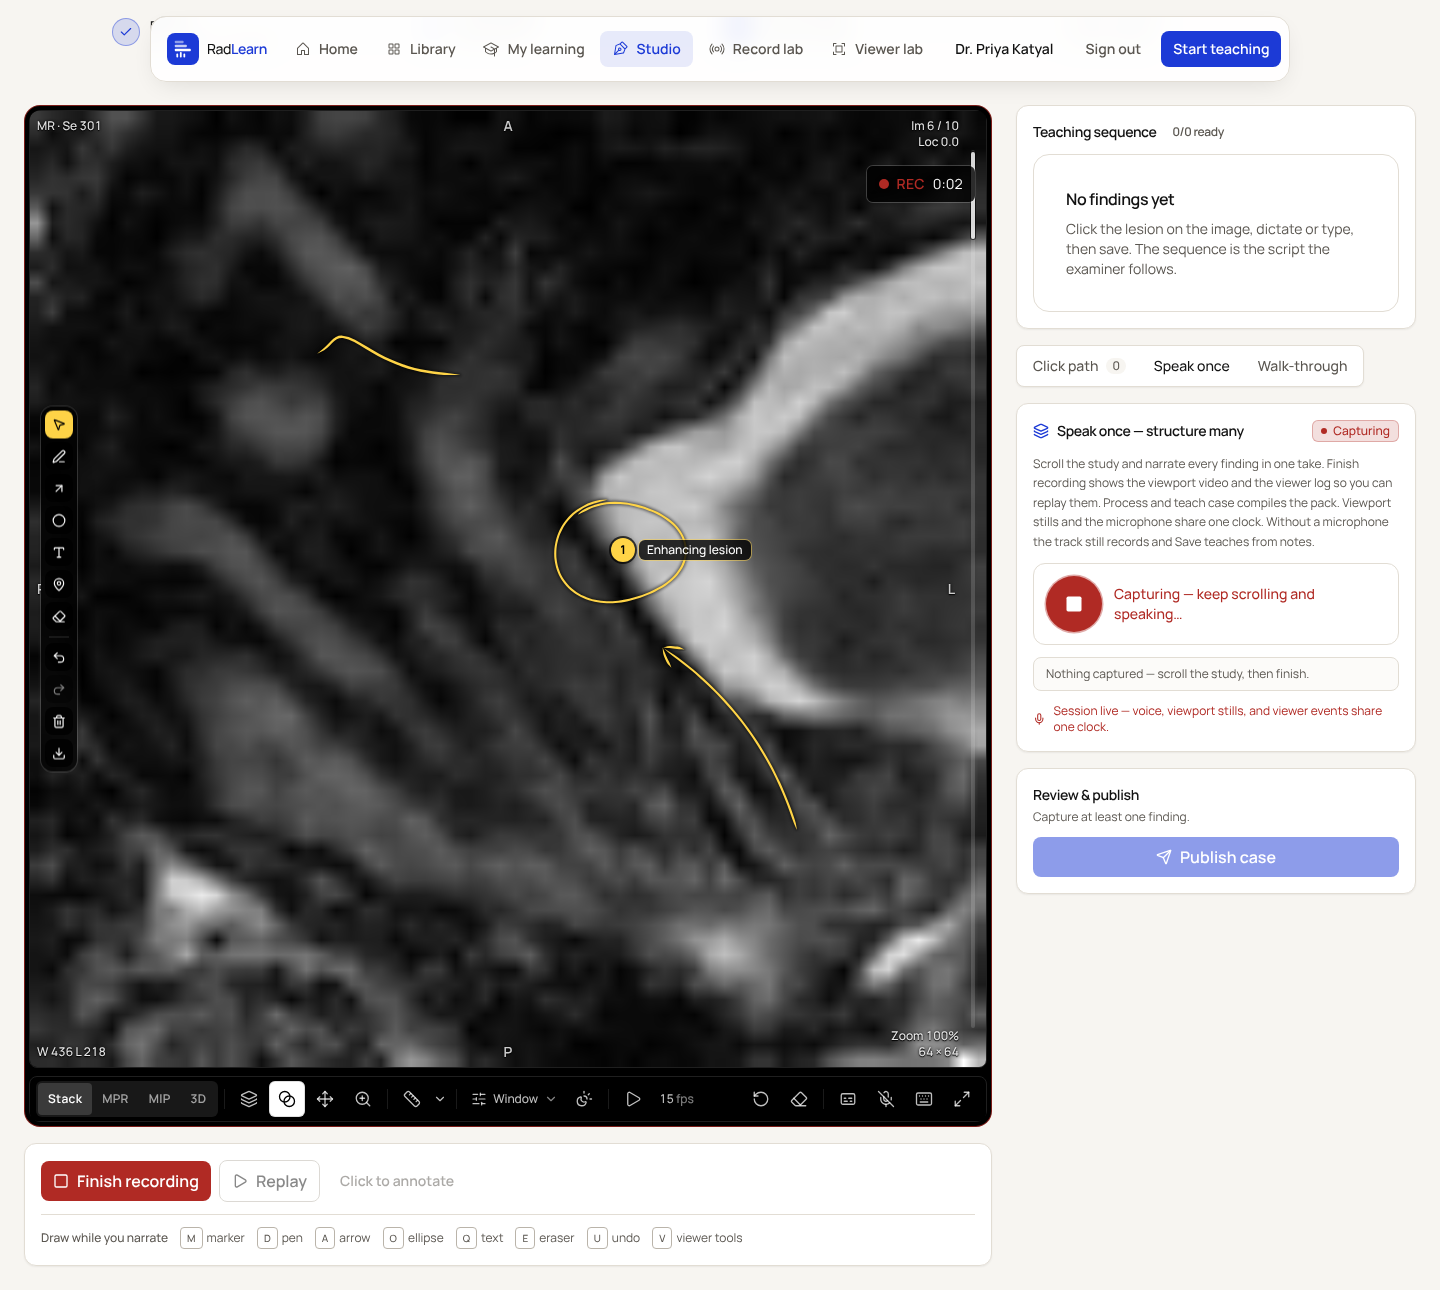
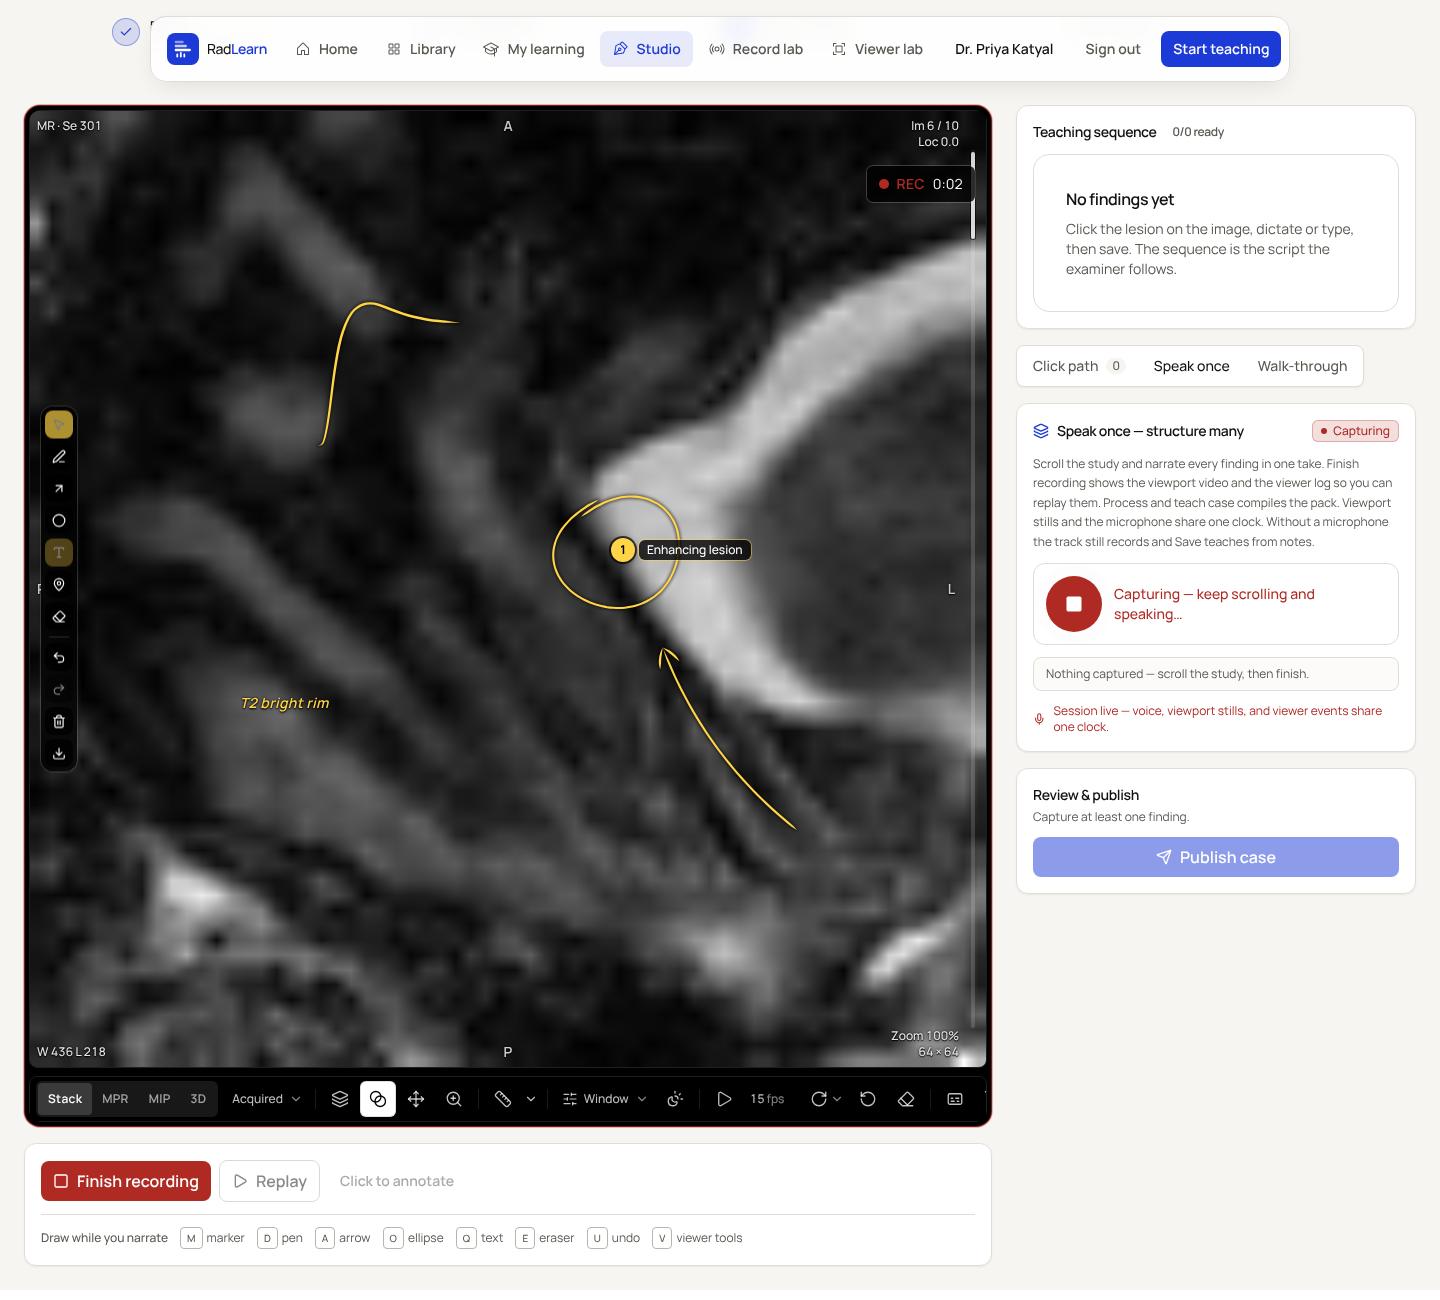
test(e2e): text tool, multi-kind undo/redo, GSPS export from the menu; more screenshots [skip ci]
Claude-Session: https://claude.ai/code/session_01RieAudcZJVy5gKmAHCWkTE

diff --git a/e2e/studio-sketch.spec.ts b/e2e/studio-sketch.spec.ts
@@ -1,6 +1,6 @@
 import { expect, test, type Page } from "@playwright/test";
 import { readFile } from "node:fs/promises";
-import { readSketchSr } from "../lib/dicomExport/sketchDicom";
+import { readSketchGsps, readSketchSr } from "../lib/dicomExport/sketchDicom";
 
 // Recording Studio teacher sketch: fake mic, draw, M marker, replay, export.
 //
@@ -105,18 +105,35 @@ test("teacher sketches while recording; ink stays on its pixels through zoom, sc
   const popover = page.getByTestId("marker-label-popover");
   await expect(popover).toBeVisible();
   await popover.getByRole("textbox").fill("Enhancing lesion");
+  await shot(page, "studio-sketch-marker-label");
   await popover.getByRole("textbox").press("Enter");
   const marker = page.getByTestId("teacher-marker");
   await expect(marker).toHaveAttribute("data-number", "1");
   await expect(marker).toHaveAttribute("data-label", "Enhancing lesion");
   await expect(page.getByTestId("teacher-stroke")).toHaveCount(3);
+
+  // Q: a text note anchored on the image.
+  await page.keyboard.press("q");
+  await page.mouse.click(box.x + box.width * 0.22, box.y + box.height * 0.62);
+  const textBox = page.getByRole("textbox", { name: "Sketch text" });
+  await expect(textBox).toBeFocused();
+  await textBox.fill("T2 bright rim");
+  await shot(page, "studio-sketch-text");
+  await textBox.press("Enter");
+  await expect(page.getByTestId("teacher-text")).toHaveText("T2 bright rim");
+  await page.keyboard.press("v");
   await shot(page, "studio-sketch-recording");
 
   // Undo / redo are ops on the same timeline.
+  // Most recent first: the text note goes, then the marker's label reverts.
+  await page.keyboard.press("u");
+  await expect(page.getByTestId("teacher-text")).toHaveCount(0);
   await page.keyboard.press("u");
   await expect(marker).toHaveAttribute("data-label", "Finding 1");
   await page.keyboard.press("Control+Shift+z");
   await expect(marker).toHaveAttribute("data-label", "Enhancing lesion");
+  await page.keyboard.press("Control+Shift+z");
+  await expect(page.getByTestId("teacher-text")).toHaveText("T2 bright rim");
   await page.waitForTimeout(500);
   await page.getByRole("button", { name: "Finish recording" }).click();
   await expect(page.getByRole("button", { name: "Replay" })).toBeEnabled({ timeout: 30_000 });
@@ -128,13 +145,16 @@ test("teacher sketches while recording; ink stays on its pixels through zoom, sc
   await page.keyboard.press("+");
   await page.keyboard.press("+");
   await expect.poll(async () => (await markerCenter(page)).x).not.toBeCloseTo(before.x, 0);
+  await page.waitForTimeout(300);
+  await shot(page, "studio-sketch-zoomed");
   await page.keyboard.press("0");
   await expect.poll(async () => Math.abs((await markerCenter(page)).x - before.x)).toBeLessThan(2);
   // Another frame of the stack: the ink is for its own image only.
   await page.keyboard.press("ArrowDown");
   await expect(page.getByTestId("teacher-sketch-layer")).toHaveAttribute("data-visible-count", "0");
+  await shot(page, "studio-sketch-other-frame");
   await page.keyboard.press("ArrowUp");
-  await expect(page.getByTestId("teacher-sketch-layer")).toHaveAttribute("data-visible-count", "4");
+  await expect(page.getByTestId("teacher-sketch-layer")).toHaveAttribute("data-visible-count", "5");
 
   // --- Reload: the live sketch comes back on the same pixels --------------
   await page.reload();
@@ -143,6 +163,8 @@ test("teacher sketches while recording; ink stays on its pixels through zoom, sc
 
   // --- Export: DICOM SR (TID 1500), read back with dcmjs -------------------
   await page.getByRole("button", { name: "Export marks" }).click();
+  await expect(page.getByRole("menuitemradio", { name: /DICOM SR/ })).toBeVisible();
+  await shot(page, "studio-sketch-export-menu");
   const downloadPromise = page.waitForEvent("download");
   await page.getByRole("menuitemradio", { name: /DICOM SR/ }).click();
   const download = await downloadPromise;
@@ -150,12 +172,25 @@ test("teacher sketches while recording; ink stays on its pixels through zoom, sc
   const bytes = await readFile(path!);
   const { dataset, groups } = readSketchSr(bytes.buffer.slice(bytes.byteOffset, bytes.byteOffset + bytes.byteLength));
   expect(dataset.Modality).toBe("SR");
-  expect(groups.map((g) => g.kind).sort()).toEqual(["arrow", "ellipse", "marker", "pen"]);
+  expect(groups.map((g) => g.kind).sort()).toEqual(["arrow", "ellipse", "marker", "pen", "text"]);
+  expect(groups.find((g) => g.kind === "text")?.text).toBe("T2 bright rim");
   const m = groups.find((g) => g.kind === "marker")!;
   expect(m.label).toBe("#1 Enhancing lesion");
   expect(m.sopInstanceUID).toBeTruthy();
   // The sample is multi-frame: every mark names its frame.
   expect(groups.every((g) => g.frameNumber != null && g.frameNumber >= 1)).toBe(true);
+
+  // GSPS from the same menu: one graphic annotation per referenced frame.
+  await page.getByRole("button", { name: "Export marks" }).click();
+  const gspsPromise = page.waitForEvent("download");
+  await page.getByRole("menuitemradio", { name: /DICOM GSPS/ }).click();
+  const gspsBytes = await readFile((await (await gspsPromise).path())!);
+  const pr = readSketchGsps(gspsBytes.buffer.slice(gspsBytes.byteOffset, gspsBytes.byteOffset + gspsBytes.byteLength));
+  expect(pr.Modality).toBe("PR");
+  const annotations = pr.GraphicAnnotationSequence as Array<{ GraphicLayer: string; TextObjectSequence?: Array<{ UnformattedTextValue: string }> }>;
+  expect(annotations.length).toBeGreaterThanOrEqual(1);
+  expect(annotations.every((a) => a.GraphicLayer === "FLOWRAD_SKETCH")).toBe(true);
+  expect(annotations.flatMap((a) => a.TextObjectSequence ?? []).map((t) => t.UnformattedTextValue)).toContain("#1 Enhancing lesion");
 
   const sidecarRes = await page.request.post(`/api/cases/${caseId}/sketch-export`, {
     data: { format: "json", items: await page.evaluate((key) => JSON.parse(sessionStorage.getItem(key) ?? "[]"), `flowrad:studio-sketch:${caseId}`) },
@@ -163,7 +198,7 @@ test("teacher sketches while recording; ink stays on its pixels through zoom, sc
   expect(sidecarRes.ok()).toBeTruthy();
   const sidecar = await sidecarRes.json();
   expect(sidecar.schema).toBe("flowrad.sketch-sidecar/1");
-  expect(sidecar.items).toHaveLength(4);
+  expect(sidecar.items).toHaveLength(5);
 });
 
 test("replay draws the teacher's ink back in time with the take", async ({ page }) => {
